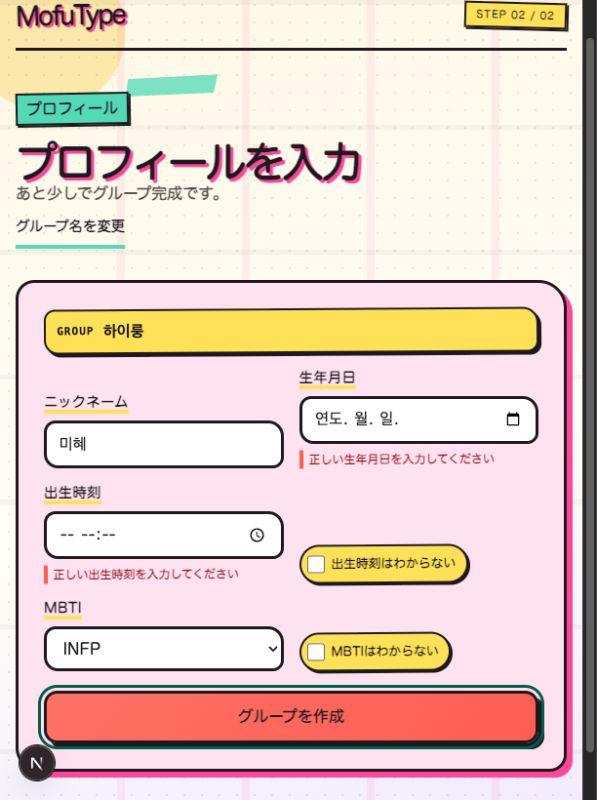
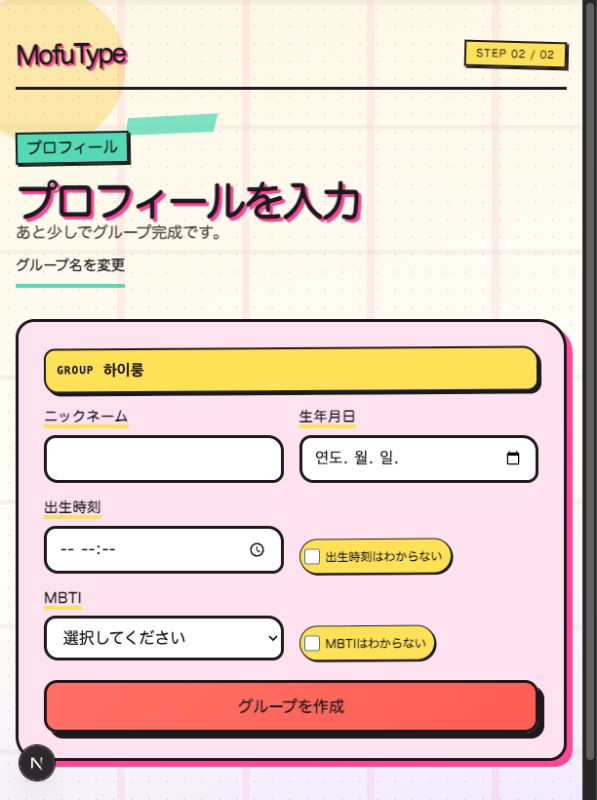
style: lighten profile unknown toggles

diff --git a/src/app/globals.css b/src/app/globals.css
@@ -288,8 +288,9 @@ select {
 .profile-step .ui-card { width: min(100%, 38rem); max-width: 38rem; justify-self: center; }
 .profile-step .onboarding-form, .profile-step .profile-fields { gap: 1rem; }
 .profile-step .form-field input, .profile-step .form-field select { min-height: 46px; padding-block: 0.55rem; }
-.profile-step .unknown-toggle { min-height: 40px; gap: 0.4rem; padding: 0.2rem 0.65rem 0.2rem 0.35rem; font-size: 0.8rem; }
-.profile-step .unknown-toggle input { width: 1.15rem; height: 1.15rem; }
+.profile-step .unknown-toggle { min-height: 36px; gap: 0.32rem; border-width: 1.5px; padding: 0.12rem 0.52rem 0.12rem 0.28rem; box-shadow: 1.5px 1.5px 0 var(--ink); font-size: 0.75rem; }
+.profile-step .unknown-toggle:has(input:checked) { box-shadow: 2px 2px 0 var(--hot-pink); }
+.profile-step .unknown-toggle input { width: 1rem; height: 1rem; }
 .profile-step .field-error { max-width: 100%; font-size: 0.75rem; line-height: 1.35; overflow-wrap: anywhere; border-left-width: 4px; padding: 0.08rem 0.35rem; background: transparent; }
 .profile-step-group { display: flex; min-width: 0; align-items: center; gap: 0.6rem; margin: 0; border: 2px solid var(--ink); border-radius: 0.7rem 1rem 0.7rem 0.9rem; padding: 0.5rem 0.7rem; background: var(--butter); box-shadow: 3px 3px 0 var(--ink); transform: rotate(-0.35deg); }
 .profile-step-group span { flex: 0 0 auto; font-family: ui-monospace, monospace; font-size: 0.7rem; font-weight: 950; letter-spacing: 0.08em; }

diff --git a/src/production-source-safety.test.ts b/src/production-source-safety.test.ts
@@ -115,8 +115,12 @@ describe("production source safety", () => {
 
     expect(globalStyles).toContain(".profile-step .ui-card {");
     expect(globalStyles).toContain("max-width: 38rem;");
-    expect(globalStyles).toContain(".profile-step .unknown-toggle input {");
-    expect(globalStyles).toContain("width: 1.15rem;");
+    expect(globalStyles).toContain(
+      ".profile-step .unknown-toggle { min-height: 36px;",
+    );
+    expect(globalStyles).toContain(
+      ".profile-step .unknown-toggle input { width: 1rem; height: 1rem; }",
+    );
     expect(globalStyles).toContain(
       ".profile-step .field-error { max-width: 100%; font-size: 0.75rem;",
     );
